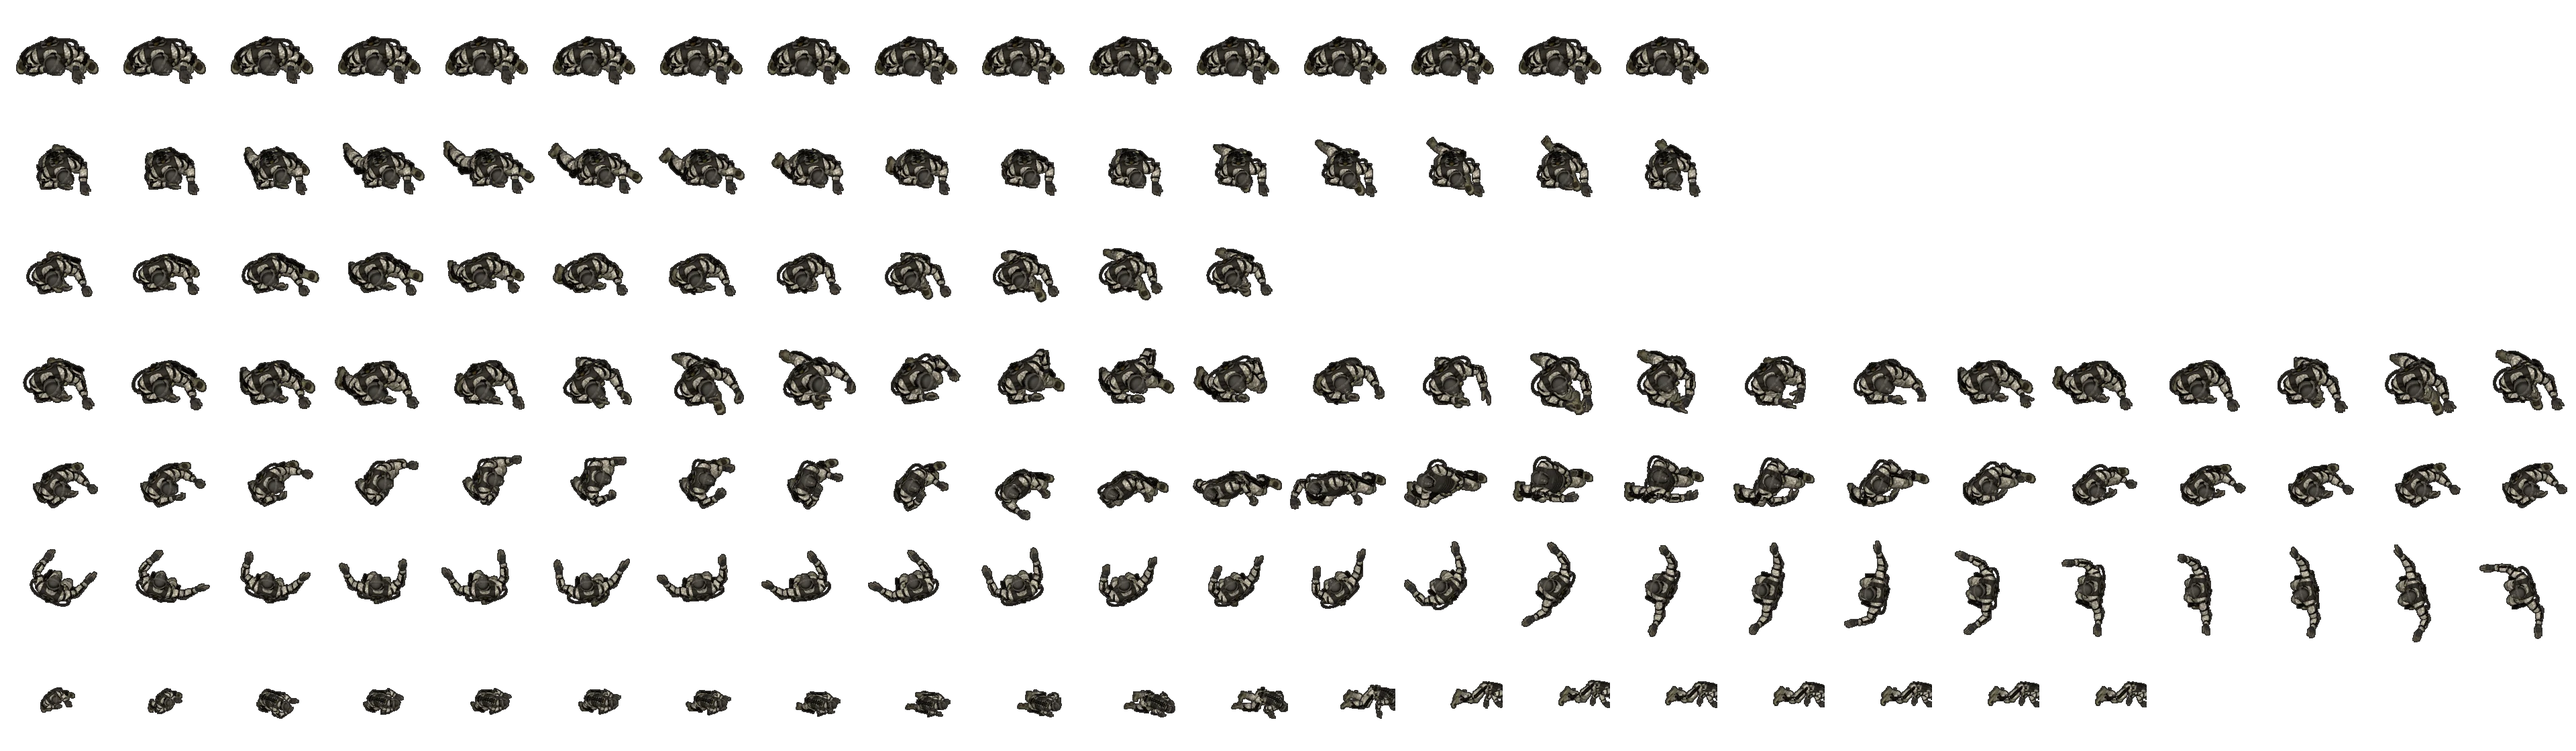
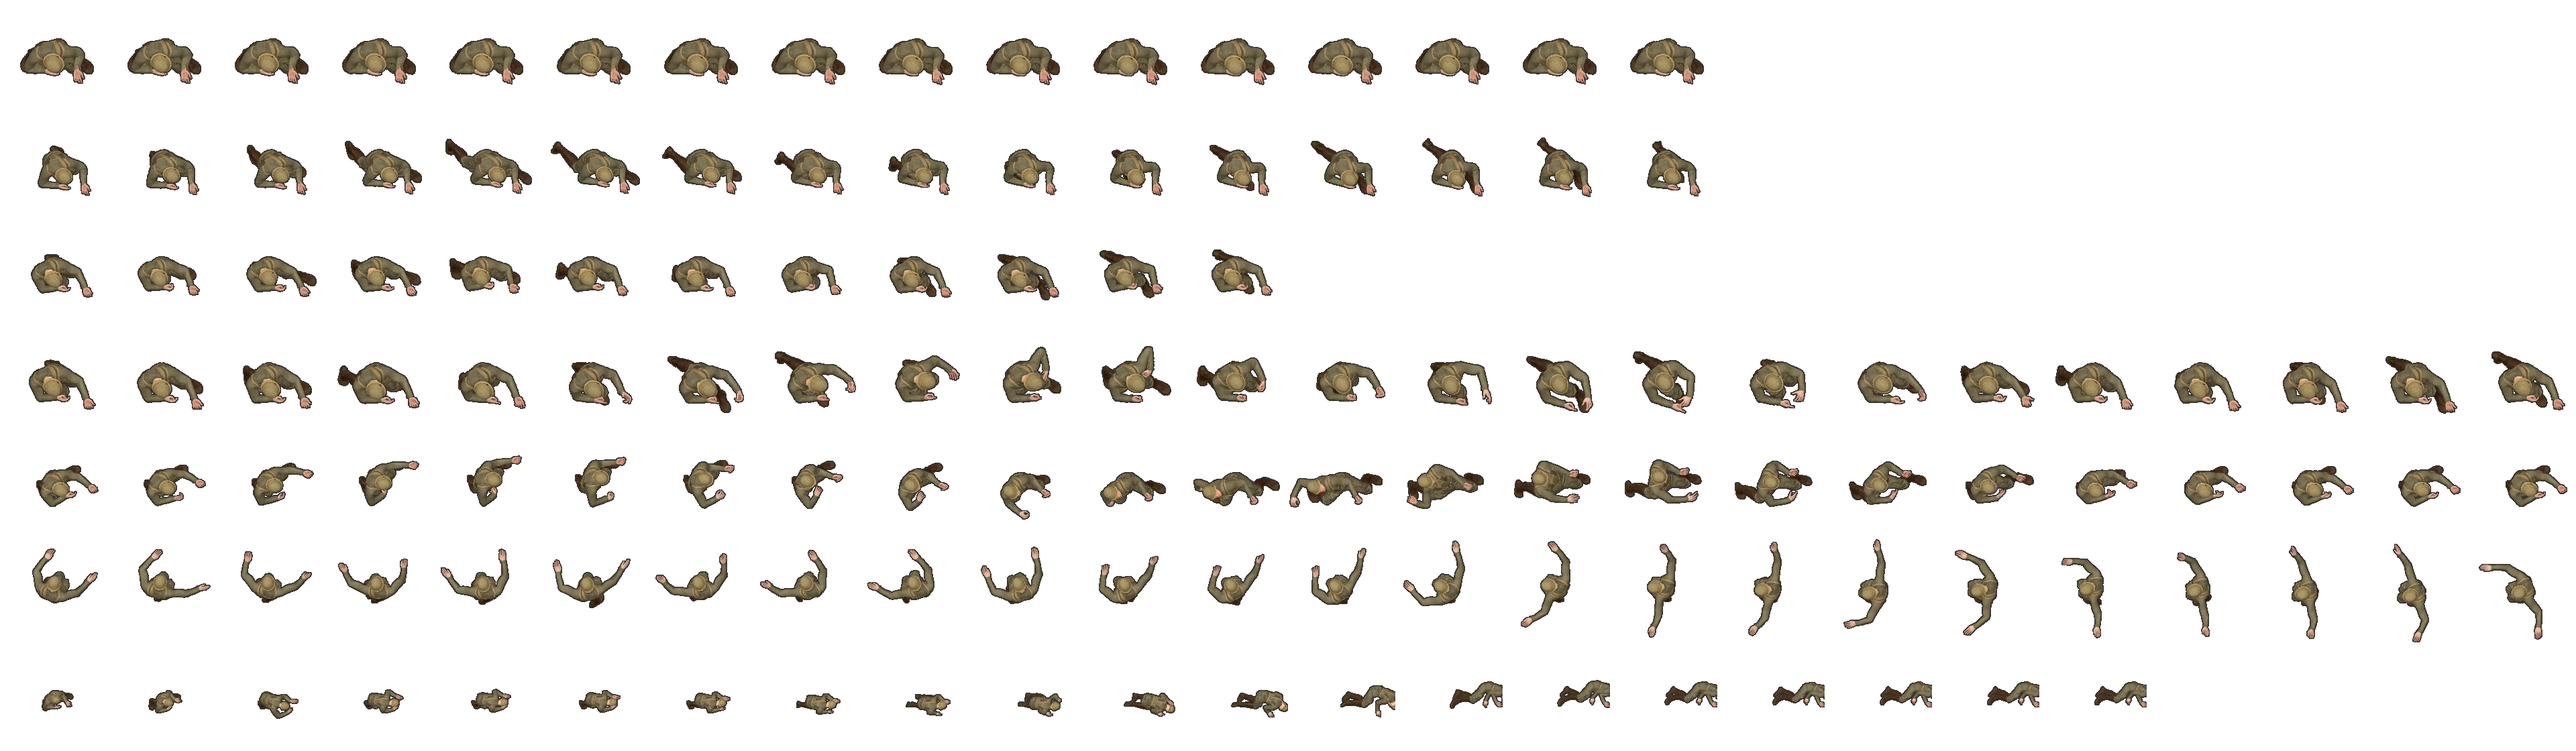
v2.46: soldats 3D avec le personnage Mixamo Steve (treillis kaki)
Claude-Session: https://claude.ai/code/session_0193LcvQs5cG9K4SMJnGwPaN

diff --git a/index.html b/index.html
@@ -1060,7 +1060,7 @@ body.sf3d-battle #sf3dBattle{display:block}body.sf3d-battle #game{visibility:hid
       <p>Taille, opacité et hauteur s'appliquent aux boutons Tirer, Pistolet et actions. La sensibilité règle la course du pouce de visée.</p>
       <div class="row"><button id="qBtn" class="ghost">Qualité : Haute</button><button id="diffBtn" class="ghost">Difficulté : Normale</button><button id="vibBtn" class="ghost">Vibration : activée</button><button id="leftyBtn" class="ghost">Gaucher : non</button><button id="aimBtn" class="ghost">Ligne de visée : courte</button><button id="miniBtn" class="ghost">Mini-carte : normale</button><button id="camBtn" class="ghost">Caméra : cinématique</button><button id="afBtn" class="ghost">Tir auto : non</button><button id="numBtn" class="ghost">Chiffres de dégâts : oui</button><button id="bloodBtn" class="ghost">Sang : oui</button><button id="mxBtn" class="ghost">Soldats 3D Mixamo : oui</button><button id="fpsBtn" class="ghost">Compteur i/s : non</button><button id="oReset" class="ghost">Réinitialiser</button><button id="oTuto" class="ghost">Revoir le tutoriel</button></div>
     </div>
-    <p id="sfVer" style="margin:0;text-align:center;font-size:11px;letter-spacing:.14em;opacity:.55">SEDDIK FIRE · 2.45</p>
+    <p id="sfVer" style="margin:0;text-align:center;font-size:11px;letter-spacing:.14em;opacity:.55">SEDDIK FIRE · 2.46</p>
     <button id="oClose" class="cta">Terminé</button>
   </div>
 </section>
@@ -6963,7 +6963,7 @@ I18N_RX.unshift([/^Plus que (\d+) places pour le Top (\d)( : rejoue !| !)$/,{en:
 
 /* ===== v2.45 — soldats 3D Mixamo (Swat Guy + Pro Rifle Pack), rendus vus de dessus avec three.js ===== */
 Object.assign(I18N.en,{'Soldats 3D Mixamo':'Mixamo 3D soldiers'});Object.assign(I18N.ar,{'Soldats 3D Mixamo':'جنود 3D ميكسامو'});
-const MX={meta:{"cell":160,"order":["idle","run","fire","reload","toss","dance","death"],"anims":{"idle":{"row":0,"n":16,"loop":true,"dur":2.1,"half":29.8,"hands":[[-3.7,8.6,12.4,8.6],[-3.7,8.6,12.4,8.6],[-3.7,8.6,12.4,8.5],[-3.7,8.6,12.4,8.5],[-3.7,8.6,12.5,8.6],[-3.6,8.7,12.5,8.6],[-3.6,8.7,12.5,8.8],[-3.6,8.8,12.6,8.8],[-3.5,8.9,12.5,8.9],[-3.5,8.9,12.5,8.9],[-3.5,8.9,12.5,8.9],[-3.5,8.8,12.5,8.9],[-3.5,8.8,12.5,8.8],[-3.6,8.7,12.4,8.7],[-3.6,8.7,12.5,8.6],[-3.6,8.7,12.4,8.6]]},"run":{"row":1,"n":16,"loop":true,"dur":0.5,"half":36.5,"hands":[[4.2,16.2,20.3,15.5],[4.8,15.8,20.6,15.1],[5.5,15.4,21.2,14.7],[5.9,14.8,21.7,14.4],[6.2,14.3,22.0,14.0],[6.1,14.2,22.0,14.0],[5.7,14.3,21.6,14.3],[5.1,14.5,21.1,14.6],[4.5,14.8,20.5,14.9],[3.7,14.9,19.8,15.1],[3.0,15.0,19.2,15.5],[2.6,15.1,18.8,15.8],[2.4,15.4,18.7,16.0],[2.7,15.8,19.0,16.1],[3.2,16.3,19.4,16.3],[3.8,16.4,19.8,16.0]]},"fire":{"row":2,"n":12,"loop":true,"dur":1.333,"half":34.6,"hands":[[3.2,11.5,19.5,11.7],[2.4,11.1,18.6,10.7],[4.5,11.2,20.8,11.2],[4.4,11.0,20.7,11.0],[1.2,10.0,17.3,9.4],[1.9,10.8,18.2,10.8],[2.4,11.4,18.7,11.4],[0.9,11.1,17.1,10.5],[2.8,11.9,19.2,11.9],[3.3,11.7,19.7,11.7],[0.7,10.4,16.9,9.9],[2.0,10.9,18.3,10.8]]},"reload":{"row":3,"n":24,"loop":false,"dur":3.936,"half":31.7,"hands":[[2.2,11.7,18.4,13.3],[2.7,12.5,18.9,13.5],[3.2,12.9,19.4,12.9],[3.5,13.6,19.7,12.7],[2.9,13.8,18.9,12.6],[3.0,14.0,18.2,10.4],[6.5,13.8,23.3,8.9],[7.9,12.9,26.2,3.2],[7.9,12.6,22.1,-3.1],[7.0,13.1,15.7,-3.1],[4.1,13.6,13.7,-3.1],[2.5,13.1,16.6,2.9],[4.1,12.7,20.6,7.1],[5.3,14.6,20.5,8.4],[5.5,17.0,18.2,13.1],[5.5,17.2,14.7,12.7],[5.9,15.3,17.6,9.2],[7.4,13.5,24.0,8.6],[5.0,12.3,21.7,12.0],[1.3,12.5,17.6,13.4],[1.3,12.8,17.6,14.3],[1.6,13.1,17.7,14.9],[2.3,13.0,18.5,15.0],[2.6,11.8,18.9,13.6]]},"toss":{"row":4,"n":24,"loop":false,"dur":3.072,"half":38.4,"hands":[[8.8,8.8,24.9,2.1],[9.6,10.7,24.8,-1.2],[6.2,10.7,24.6,-7.2],[5.9,8.3,23.3,-12.6],[8.5,8.1,20.4,-15.8],[12.2,10.6,18.5,-14.8],[14.0,10.2,19.1,-10.2],[8.1,8.5,19.6,-4.4],[4.7,12.1,18.8,1.1],[0.3,21.7,15.5,5.8],[-13.0,14.0,12.8,7.9],[-25.3,4.5,11.8,10.3],[-34.1,10.6,9.8,10.2],[-24.6,13.0,10.2,1.4],[7.4,11.2,9.0,-6.1],[15.9,10.4,11.3,-7.2],[12.4,11.6,12.8,-6.9],[8.7,11.3,17.0,-6.3],[8.0,10.4,21.8,-4.2],[8.6,9.4,24.0,-0.5],[9.2,8.9,25.1,1.8],[9.7,9.3,25.8,2.9],[9.4,9.2,25.5,2.8],[9.2,8.9,25.2,2.3]]},"dance":{"row":5,"n":24,"loop":true,"dur":4.0,"half":40.8,"hands":[[25.0,-6.3,-6.0,-22.9],[27.9,-0.8,-6.4,-23.3],[25.6,-8.5,-15.8,-21.0],[20.5,-16.3,-22.4,-13.5],[14.7,-21.4,-24.7,-9.2],[23.3,-15.7,-23.7,-13.0],[19.1,-19.8,-24.4,-5.7],[7.8,-22.2,-25.6,-2.3],[3.9,-22.9,-24.7,-0.8],[12.0,-22.8,-23.2,-9.2],[18.3,-18.7,-16.9,-10.8],[17.5,-19.8,-14.4,-10.2],[13.9,-23.2,-19.3,-9.2],[5.9,-27.4,-26.7,0.6],[0.3,-29.2,-18.1,21.7],[2.0,-28.3,-7.0,27.5],[3.0,-29.1,-10.7,27.4],[0.0,-29.1,-16.9,24.7],[-13.7,-24.5,-8.2,27.1],[-15.3,-20.8,3.6,27.3],[-11.7,-23.5,4.3,27.6],[-8.9,-26.3,3.3,29.8],[-11.0,-26.6,3.5,31.6],[-22.4,-16.6,12.3,27.3]]},"death":{"row":6,"n":20,"loop":false,"dur":3.296,"half":67.2,"hands":[[1.7,12.2,15.8,5.2],[7.7,14.6,17.4,2.1],[24.1,18.3,28.2,4.7],[22.4,14.8,25.8,-1.6],[24.0,13.2,25.5,-2.3],[26.4,13.3,28.3,-0.9],[27.6,14.6,31.9,1.1],[28.4,17.5,35.6,3.5],[29.6,19.7,40.1,4.9],[33.5,19.8,47.4,3.2],[39.3,19.9,52.7,5.1],[43.7,19.6,56.9,5.0],[46.0,17.1,59.3,5.5],[47.1,4.3,60.4,6.4],[46.4,1.2,60.8,6.8],[46.1,1.2,60.8,6.7],[46.0,1.2,60.9,6.5],[46.1,1.1,60.8,6.5],[46.1,1.1,61.0,6.6],[46.1,1.0,60.9,6.6]]}}},img:null,ok:false,sc:null};
+const MX={meta:{"cell":160,"order":["idle","run","fire","reload","toss","dance","death"],"anims":{"idle":{"row":0,"n":16,"loop":true,"dur":2.1,"half":29.8,"hands":[[-4.7,9.1,12.8,9.0],[-4.7,9.1,12.8,9.0],[-4.7,9.1,12.8,9.0],[-4.7,9.1,12.8,9.0],[-4.6,9.2,12.8,9.0],[-4.6,9.2,12.9,9.1],[-4.6,9.2,13.0,9.2],[-4.5,9.3,12.9,9.3],[-4.5,9.3,13.0,9.3],[-4.5,9.3,13.0,9.4],[-4.5,9.3,13.0,9.4],[-4.5,9.3,13.0,9.3],[-4.4,9.2,12.9,9.3],[-4.4,9.2,12.9,9.1],[-4.5,9.1,12.9,9.1],[-4.6,9.1,12.8,9.1]]},"run":{"row":1,"n":16,"loop":true,"dur":0.5,"half":36.5,"hands":[[3.2,16.6,20.6,15.8],[3.8,16.4,21.0,15.5],[4.4,15.9,21.5,15.2],[5.0,15.3,21.9,14.8],[5.2,14.6,22.2,14.4],[5.1,14.4,22.2,14.4],[4.6,14.6,21.8,14.6],[4.1,14.8,21.3,14.8],[3.4,15.0,20.8,15.1],[2.5,15.1,20.0,15.4],[1.9,15.2,19.4,15.6],[1.4,15.3,18.9,15.8],[1.4,15.6,18.8,16.0],[1.7,15.9,19.1,16.1],[2.2,16.6,19.6,16.4],[2.8,16.8,20.1,16.3]]},"fire":{"row":2,"n":12,"loop":true,"dur":1.333,"half":34.6,"hands":[[2.4,12.3,19.9,12.5],[1.6,11.7,19.2,11.4],[3.8,12.1,21.4,12.1],[3.6,11.8,21.2,11.7],[0.4,10.7,18.0,10.1],[1.1,11.5,18.8,11.6],[1.7,12.1,19.3,12.1],[0.1,11.6,17.7,11.2],[2.1,12.6,19.8,12.6],[2.6,12.5,20.1,12.5],[-0.2,11.0,17.4,10.5],[1.2,11.6,18.8,11.5]]},"reload":{"row":3,"n":24,"loop":false,"dur":3.936,"half":31.7,"hands":[[1.7,12.4,19.1,13.7],[2.0,13.0,19.6,13.8],[2.5,13.3,20.1,13.2],[2.9,13.9,20.6,13.0],[2.2,13.9,19.6,12.7],[2.2,14.0,18.6,10.2],[5.7,14.0,23.7,8.8],[7.0,13.1,26.5,3.0],[7.1,12.8,22.1,-3.6],[6.2,13.2,15.7,-4.2],[3.4,13.7,13.7,-4.3],[1.9,13.2,16.7,2.3],[3.4,12.8,21.1,7.0],[4.5,14.7,21.1,7.9],[4.8,17.0,18.6,13.0],[4.8,17.3,15.1,12.5],[5.1,15.4,18.2,9.1],[6.7,13.8,24.5,8.7],[4.3,12.6,22.3,12.4],[0.7,12.8,18.3,13.8],[0.7,13.3,18.3,14.7],[0.9,13.6,18.5,15.4],[1.7,13.5,19.2,15.4],[2.1,12.5,19.6,14.0]]},"toss":{"row":4,"n":24,"loop":false,"dur":3.072,"half":38.4,"hands":[[8.2,9.4,25.3,2.2],[8.8,11.1,25.2,-1.2],[5.2,11.2,25.1,-7.3],[4.8,9.1,23.7,-12.6],[7.6,9.2,20.5,-15.7],[11.3,11.5,18.5,-14.6],[13.6,11.0,19.2,-10.0],[8.1,9.3,19.7,-4.3],[4.6,12.8,19.0,1.1],[0.1,21.6,15.8,5.6],[-13.6,13.5,13.0,7.6],[-26.0,3.6,12.2,10.1],[-34.4,10.0,10.1,10.0],[-23.5,14.3,10.5,1.5],[8.0,12.1,9.2,-5.9],[16.3,11.6,11.3,-7.1],[12.2,12.6,12.7,-6.9],[8.1,12.0,16.9,-6.4],[7.3,11.1,22.0,-4.2],[8.0,10.0,24.3,-0.5],[8.6,9.5,25.5,1.9],[9.1,9.9,26.3,3.1],[8.8,9.8,26.0,2.9],[8.6,9.5,25.7,2.4]]},"dance":{"row":5,"n":24,"loop":true,"dur":4.0,"half":40.8,"hands":[[26.0,-6.2,-6.1,-23.5],[28.9,-0.9,-6.5,-24.1],[26.7,-9.0,-16.3,-21.7],[21.4,-17.0,-23.2,-14.0],[15.5,-22.0,-25.4,-9.6],[24.0,-16.2,-24.3,-13.4],[19.8,-20.6,-25.4,-6.0],[8.3,-23.2,-26.7,-2.6],[4.4,-23.9,-25.7,-1.0],[12.6,-23.6,-24.0,-9.5],[19.1,-19.8,-17.5,-11.4],[18.2,-20.9,-15.0,-10.8],[14.4,-24.2,-20.0,-9.7],[6.3,-28.1,-27.4,0.7],[0.6,-30.1,-18.8,22.2],[2.1,-29.3,-7.7,28.3],[3.0,-30.0,-11.3,28.1],[-0.1,-30.0,-17.4,25.2],[-13.9,-25.4,-8.6,27.8],[-15.8,-21.7,3.2,28.3],[-12.3,-24.5,3.9,28.6],[-9.5,-27.2,3.0,30.6],[-11.5,-27.4,3.4,32.2],[-23.0,-17.2,12.2,28.1]]},"death":{"row":6,"n":20,"loop":false,"dur":3.296,"half":67.2,"hands":[[0.9,12.7,16.1,5.4],[7.0,15.2,17.6,2.2],[23.6,19.3,28.2,4.9],[21.4,15.2,25.4,-1.7],[23.0,13.5,25.0,-2.3],[25.4,13.7,27.9,-0.8],[26.5,14.9,31.7,1.2],[27.5,17.6,35.5,3.7],[28.9,19.7,40.4,5.0],[32.8,19.5,48.1,3.7],[38.2,19.4,52.1,4.9],[42.6,18.9,56.5,4.8],[44.9,16.4,58.9,5.4],[46.3,3.7,59.9,6.7],[45.6,0.7,60.4,7.1],[45.3,0.7,60.5,6.9],[45.3,0.6,60.6,6.8],[45.3,0.5,60.5,6.8],[45.4,0.5,60.7,6.9],[45.3,0.5,60.6,6.9]]}}},img:null,ok:false,sc:null};
 {const im=new Image();im.onload=()=>{MX.img=im;MX.ok=true};im.onerror=()=>console.warn('Mixamo : planche introuvable');im.src='assets/mixamo/swat.webp'}
 const MXK=.86;
 function mxOn(){return MX.ok&&!stats.noMx}
@@ -6977,7 +6977,7 @@ function mxPick(e){const A=MX.meta.anims;
 function mxBlit(c,an,f,tint,al){const A=MX.meta.anims[an],C=MX.meta.cell,h=A.half;
   if(!MX.sc){MX.sc=document.createElement('canvas');MX.sc.width=MX.sc.height=C}
   const g=MX.sc.getContext('2d');g.globalCompositeOperation='copy';g.drawImage(MX.img,f*C,A.row*C,C,C,0,0,C,C);
-  if(tint){g.globalCompositeOperation='source-atop';g.globalAlpha=.3;g.fillStyle=tint;g.fillRect(0,0,C,C);g.globalAlpha=1}g.globalCompositeOperation='source-over';
+  if(tint){g.globalCompositeOperation='source-atop';g.globalAlpha=.24;g.fillStyle=tint;g.fillRect(0,0,C,C);g.globalAlpha=1}g.globalCompositeOperation='source-over';
   const ga=c.globalAlpha,sm=c.imageSmoothingEnabled;c.imageSmoothingEnabled=true;c.imageSmoothingQuality='high';if(al!=null)c.globalAlpha=ga*al;const hh=h*MXK;c.drawImage(MX.sc,-hh,-hh,hh*2,hh*2);c.globalAlpha=ga;c.imageSmoothingEnabled=sm}
 function sfMxDraw(c,e){if(!mxOn())return false;const sk=e.sk||SOLDIERS[1];if(sk.cape||e.inPlane||e.air>0)return false;
   const [an,f]=mxPick(e),A=MX.meta.anims[an];c.save();c.scale(SV,SV);mxBlit(c,an,f,sk.top||sk.base);

diff --git a/sw.js b/sw.js
@@ -1,5 +1,5 @@
 /* Seddik Fire — service worker : le jeu se lance hors ligne après la première ouverture. */
-const VERSION = 'seddik-fire-v246';
+const VERSION = 'seddik-fire-v247';
 const FONTS = 'seddik-fire-fonts';
 const LEGACY_CACHES = ['super-joud-v10'];
 const CORE = [

diff --git a/CREDITS.md b/CREDITS.md
@@ -12,5 +12,5 @@ Tous les graphismes du jeu (personnages, armes, véhicules, bâtiments, arbres, 
 Noms d'armes, de cartes et de personnages : inventés. Aucune marque, aucun logo réel.
 
 ## Soldats 3D (version 2.45)
-- Personnage « Swat Guy » et animations (Pro Rifle Pack, Firing Rifle, Reload, Toss Grenade, Hip Hop Dancing) : **Mixamo** (Adobe), utilisés dans le jeu selon les conditions de Mixamo (usage libre dans un projet, y compris commercial ; les fichiers bruts ne sont pas redistribués : seules les images rendues sont dans le jeu).
+- Personnage « Steve » (version 2.46, auparavant « Swat Guy ») et animations (Pro Rifle Pack, Firing Rifle, Reload, Toss Grenade, Hip Hop Dancing) : **Mixamo** (Adobe), utilisés dans le jeu selon les conditions de Mixamo (usage libre dans un projet, y compris commercial ; les fichiers bruts ne sont pas redistribués : seules les images rendues sont dans le jeu).
 - Rendu vu de dessus : **three.js** (licence MIT), outils dans `tools/mixamo_threejs/`.

diff --git a/README.md b/README.md
@@ -1,5 +1,8 @@
 # Seddik Fire
 
+## Nouveautés 2.46 — Soldat Mixamo « Steve » en treillis kaki
+- Les soldats 3D utilisent maintenant le personnage Mixamo **Steve** (treillis kaki et casque), plus clair et plus proche d’un soldat de l’armée tunisienne que le Swat Guy noir. Mêmes 7 animations (repos, course, tir, rechargement, grenade, mort, danse).
+
 ## Nouveautés 2.45 — Soldats 3D Mixamo
 - Tous les soldats en partie sont maintenant des **soldats 3D animés avec Mixamo** (personnage Swat Guy), rendus vus de dessus avec three.js : repos en visée, course, tir, rechargement, lancer de grenade, mort (chute réelle) et danse de victoire.
 - L’arme du joueur reste celle du jeu, placée dans les mains du soldat à chaque image. La tenue prend la couleur du héros choisi.
